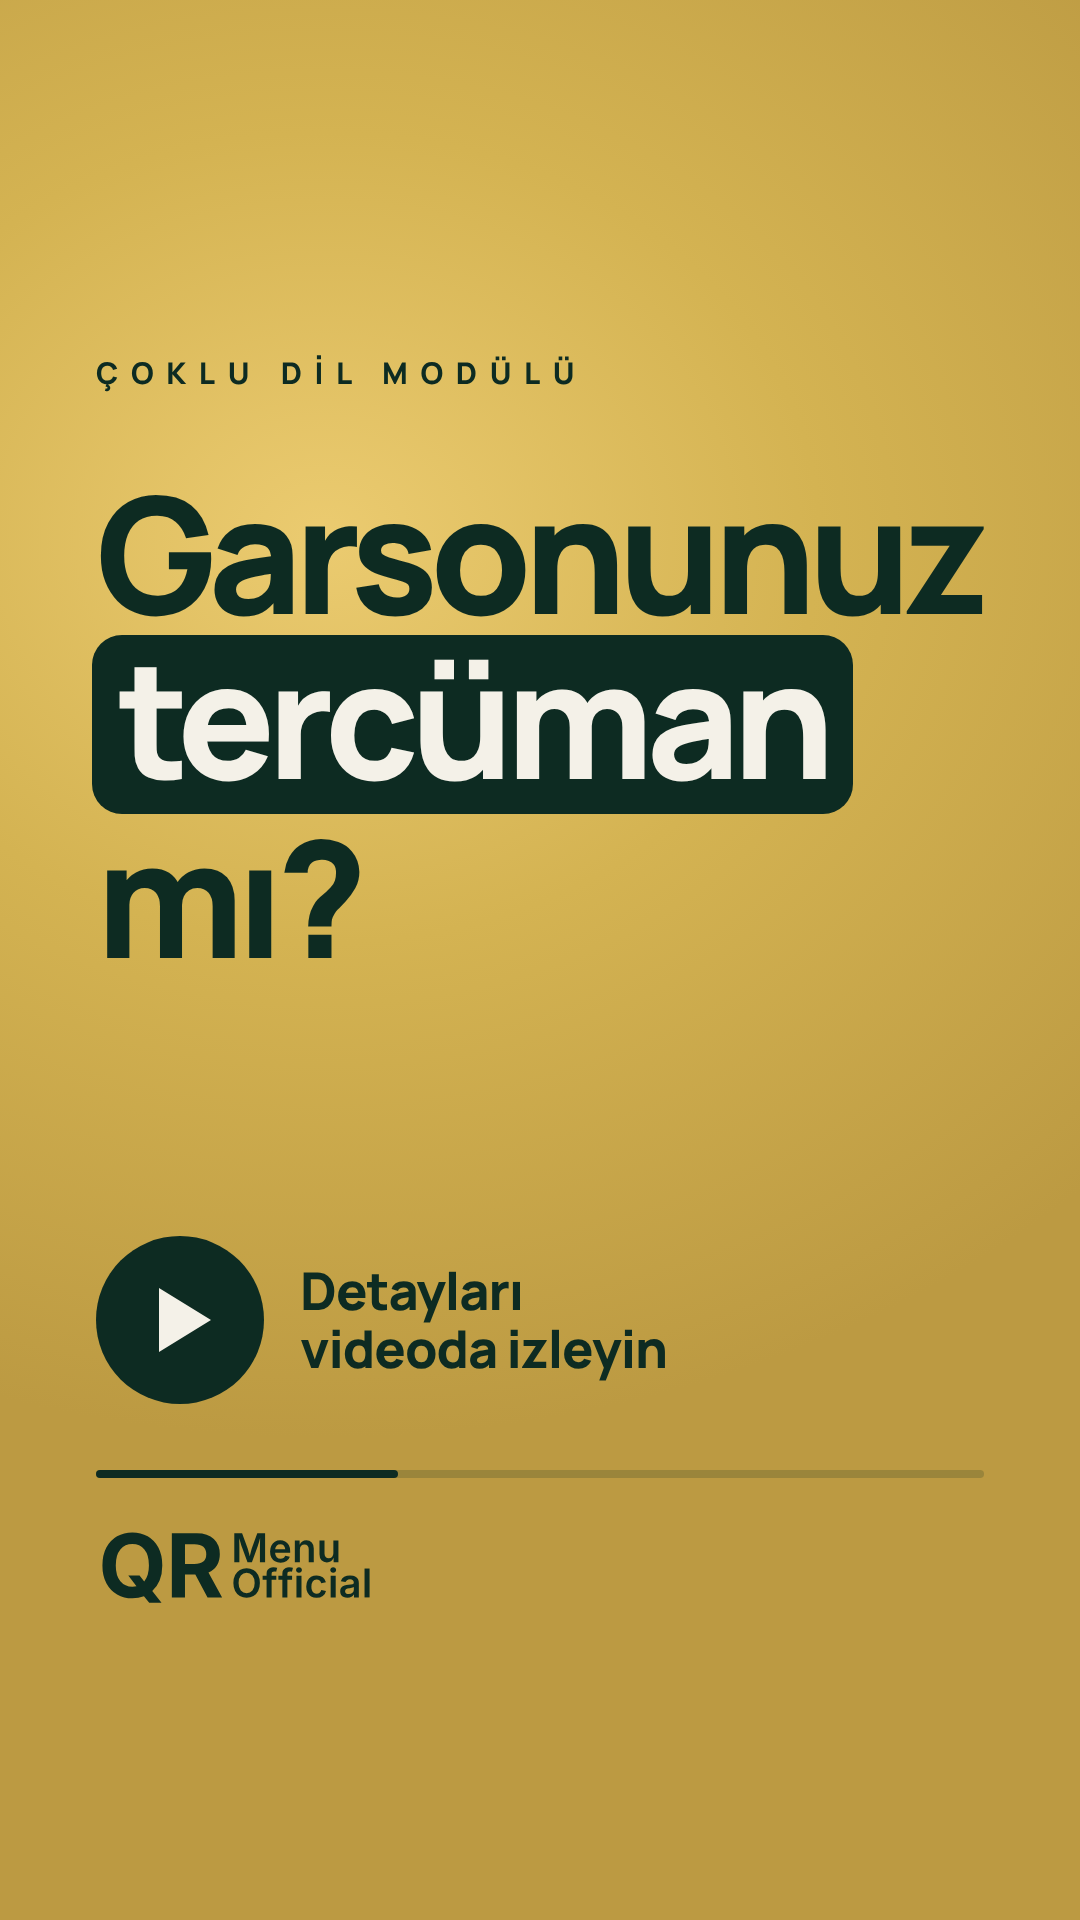
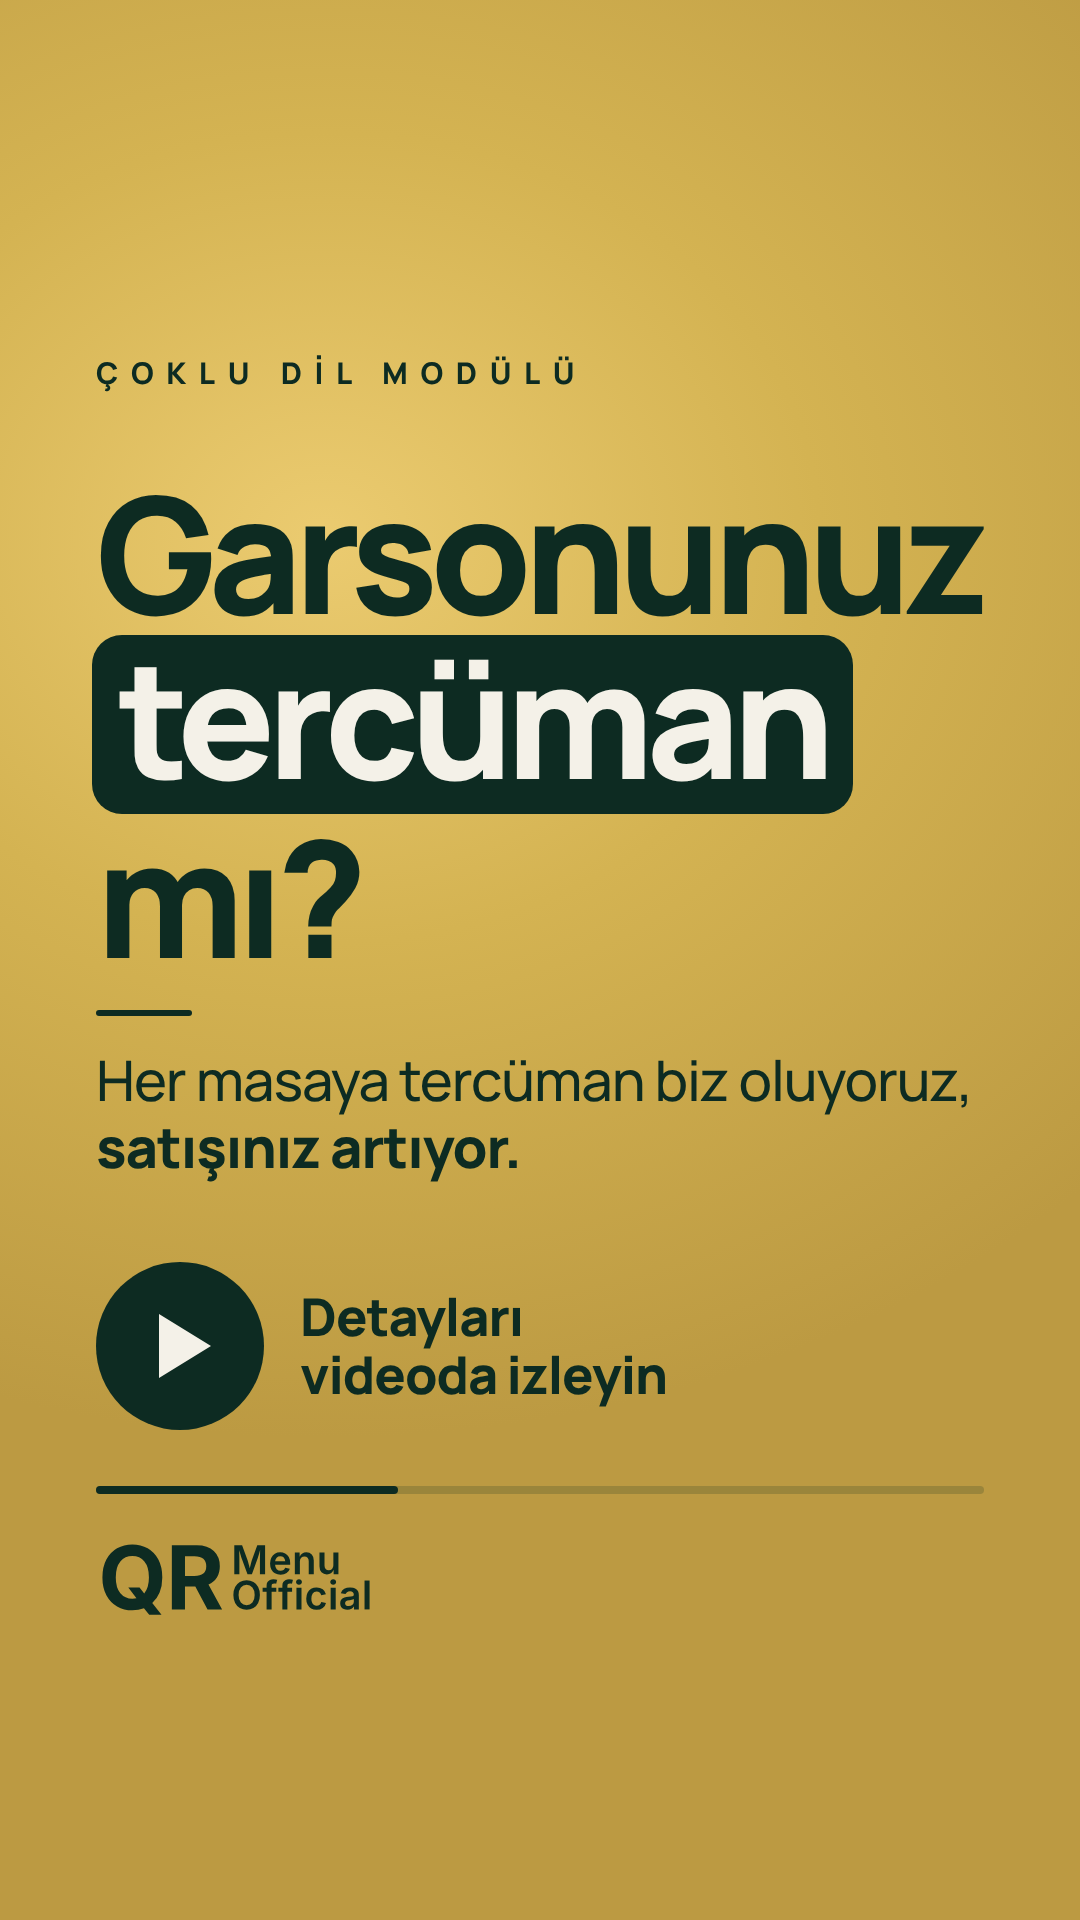
Reels kapağı: acı + satış cümlesi eklendi
Claude-Session: https://claude.ai/code/session_01FBw9rVwrniVjyFvtgVdFXq

Changed region(s): [[0.0917, 0.5312, 0.9167, 0.8438], [0.7028, 0.5312, 0.8861, 0.5938], [0.6111, 0.5312, 0.6722, 0.5938]]

diff --git a/analiz/video/kapak/kapak-video.html b/analiz/video/kapak/kapak-video.html
@@ -9,16 +9,20 @@ html,body{width:1080px;height:1920px;overflow:hidden;font-family:Manrope,sans-se
 .h{position:absolute;left:96px;top:470px;font-weight:800;letter-spacing:-.05em;line-height:1.02}
 .h span{display:block;white-space:nowrap}
 .pill{display:inline-block;background:var(--y);color:var(--off);padding:0 26px 14px;border-radius:30px;line-height:1.02;margin-left:-4px}
-.play{position:absolute;left:96px;top:1236px;display:flex;align-items:center;gap:36px}
+.play{position:absolute;left:96px;top:1262px;display:flex;align-items:center;gap:36px}
 .play .c{width:168px;height:168px;border-radius:50%;background:var(--y);display:grid;place-items:center}
 .play .c svg{margin-left:10px}
 .play .t{font-weight:800;font-size:52px;line-height:1.12;letter-spacing:-.02em}
-.bar{position:absolute;left:96px;width:888px;top:1470px;height:8px;border-radius:4px;background:#0D2B2230}
+.bar{position:absolute;left:96px;width:888px;top:1486px;height:8px;border-radius:4px;background:#0D2B2230}
 .bar i{display:block;height:100%;width:34%;border-radius:4px;background:var(--y)}
-.logo{position:absolute;left:96px;top:1526px}.logo svg{width:280px;display:block}
+.logo{position:absolute;left:96px;top:1538px}.logo svg{width:280px;display:block}
+.rule{position:absolute;left:96px;top:1010px;width:96px;height:6px;border-radius:3px;background:var(--y)}
+.s{position:absolute;left:96px;top:1046px;font-size:56px;line-height:1.2;letter-spacing:-.02em;font-weight:500}
+.s b{font-weight:800}
 </style></head><body>
 <div class="lab">ÇOKLU DİL MODÜLÜ</div>
 <div class="h" id="H"><span>Garsonunuz</span><span><b class="pill">tercüman</b></span><span>mı?</span></div>
+<div class="rule"></div><div class="s">Her masaya tercüman biz oluyoruz,<br><b>satışınız artıyor.</b></div>
 <div class="play"><div class="c"><svg width="64" height="72" viewBox="0 0 64 72"><path d="M6 4 L58 36 L6 68 Z" fill="#F4F1E8"/></svg></div><div class="t">Detayları<br>videoda izleyin</div></div>
 <div class="bar"><i></i></div>
 <div class="logo"><svg xmlns="http://www.w3.org/2000/svg" viewBox="0 0 4363.25 1296.64" fill="none" role="img" aria-labelledby="logo-title">
